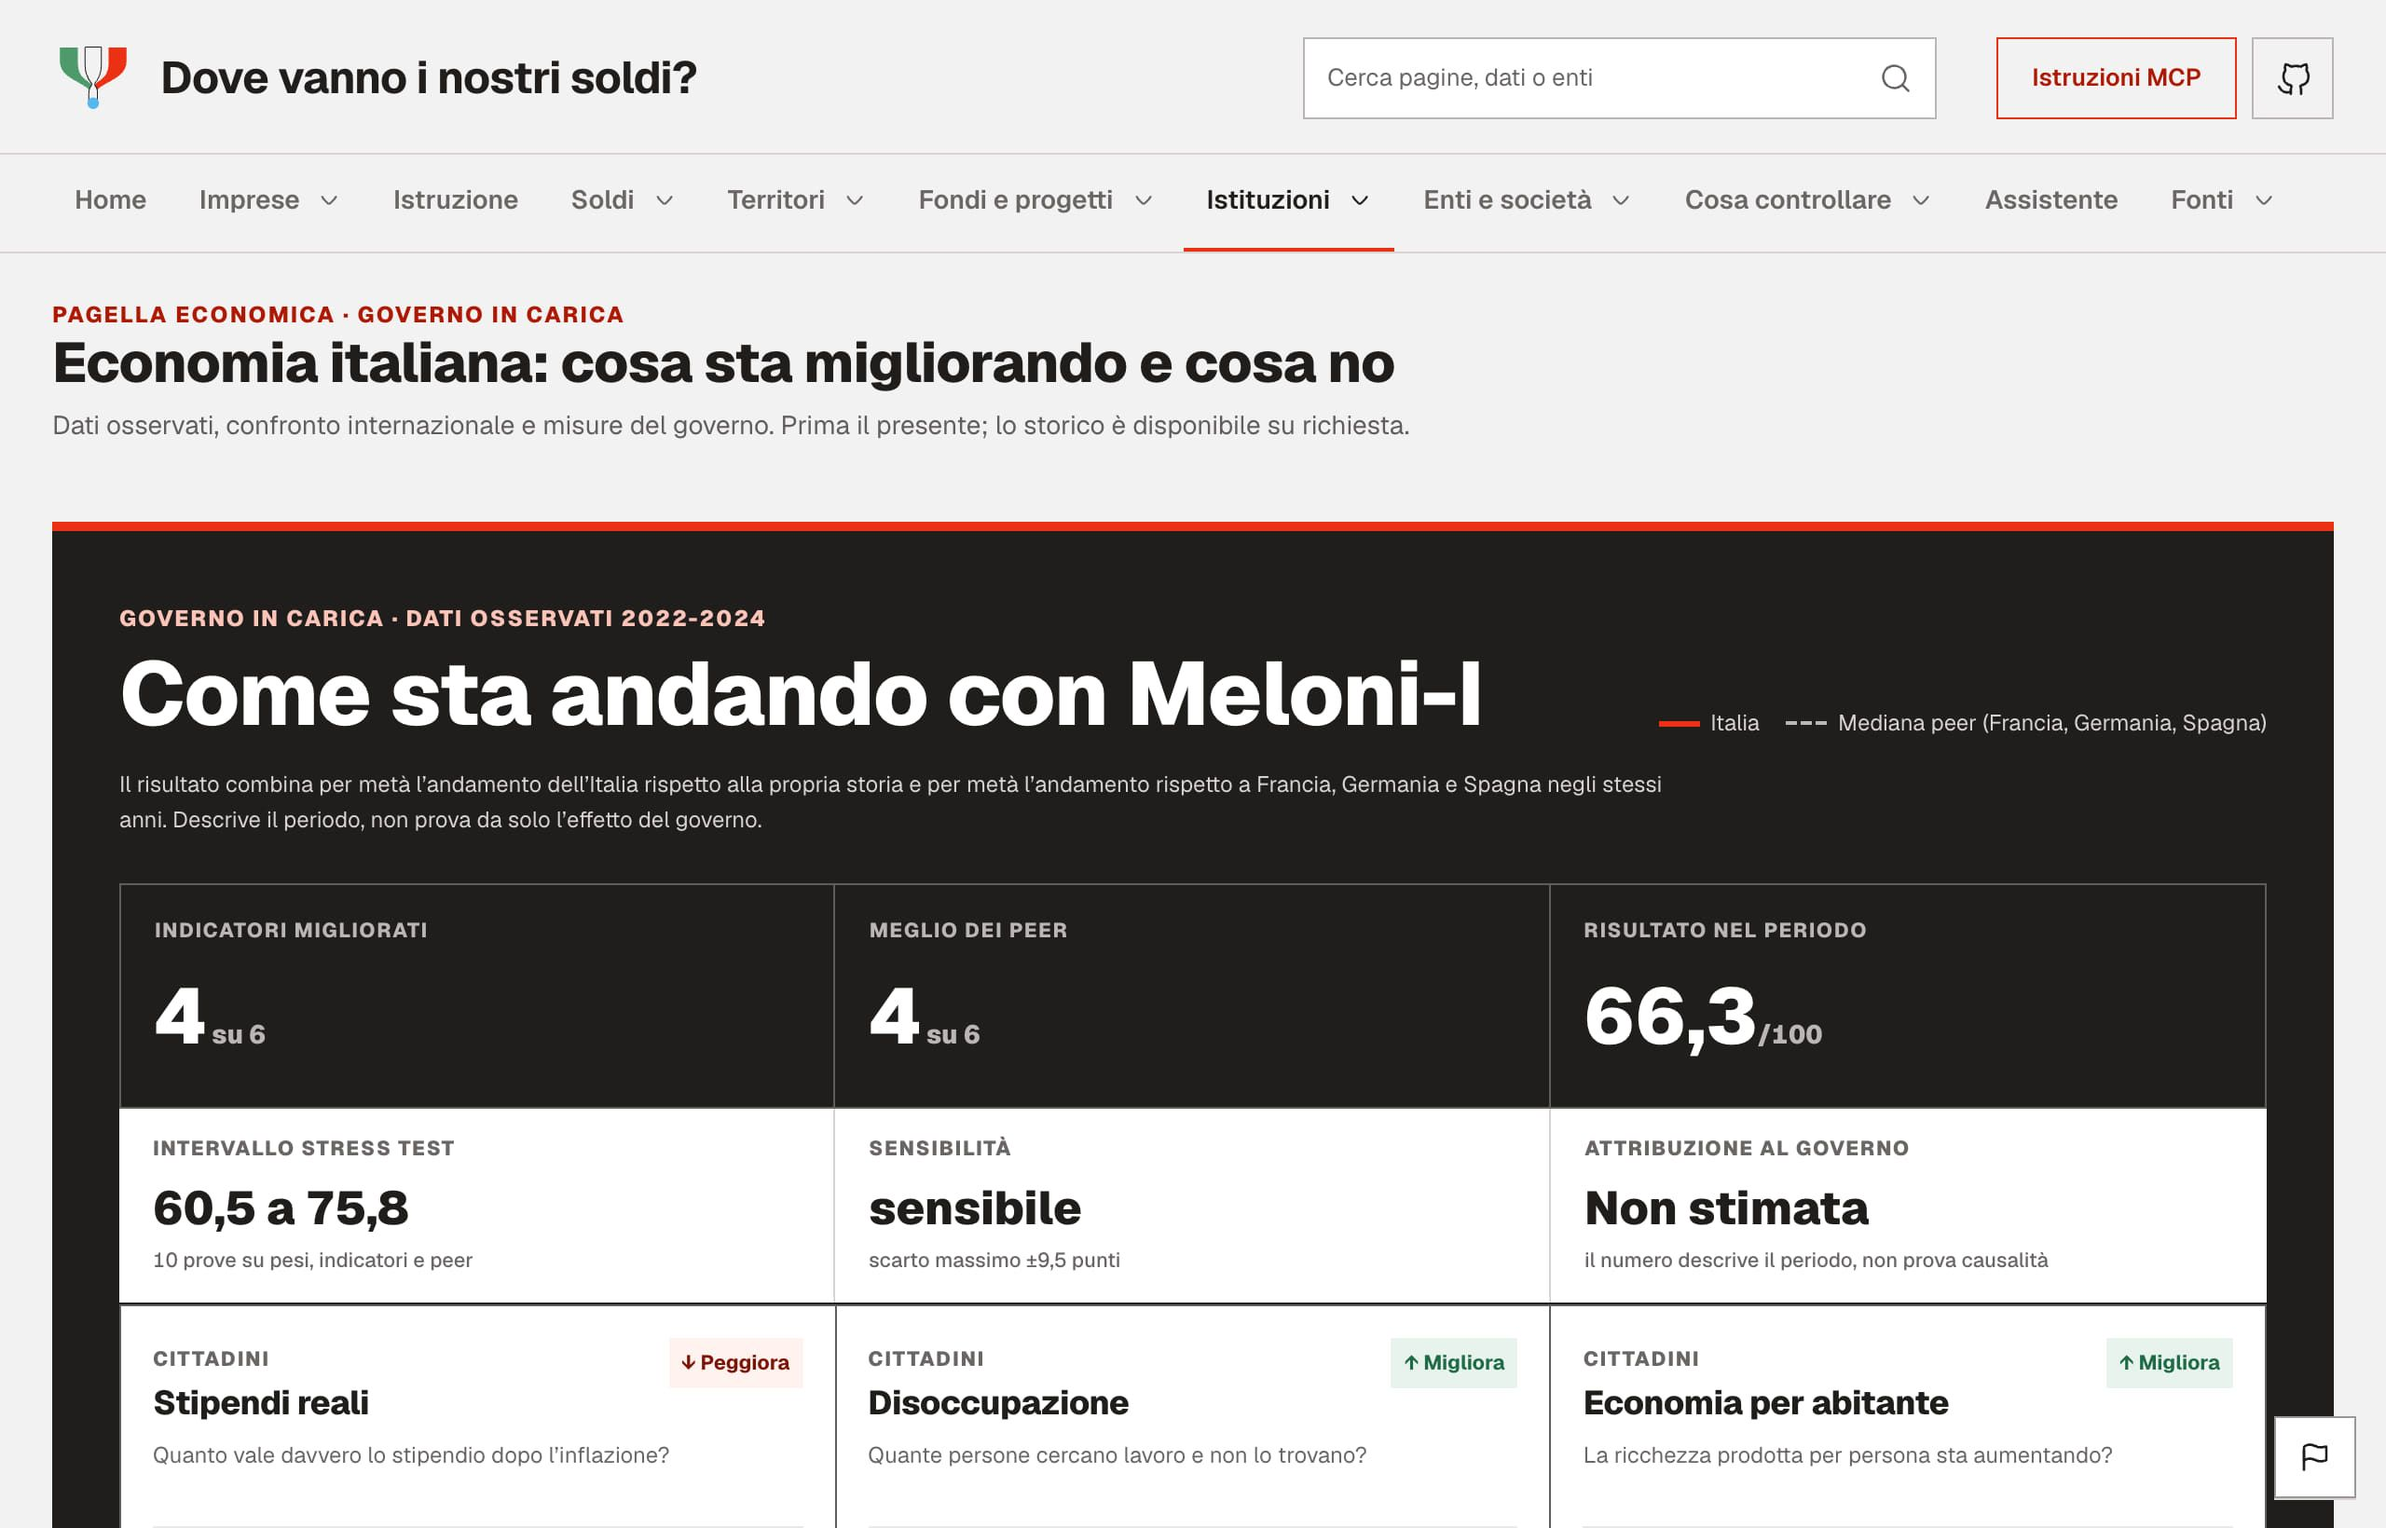
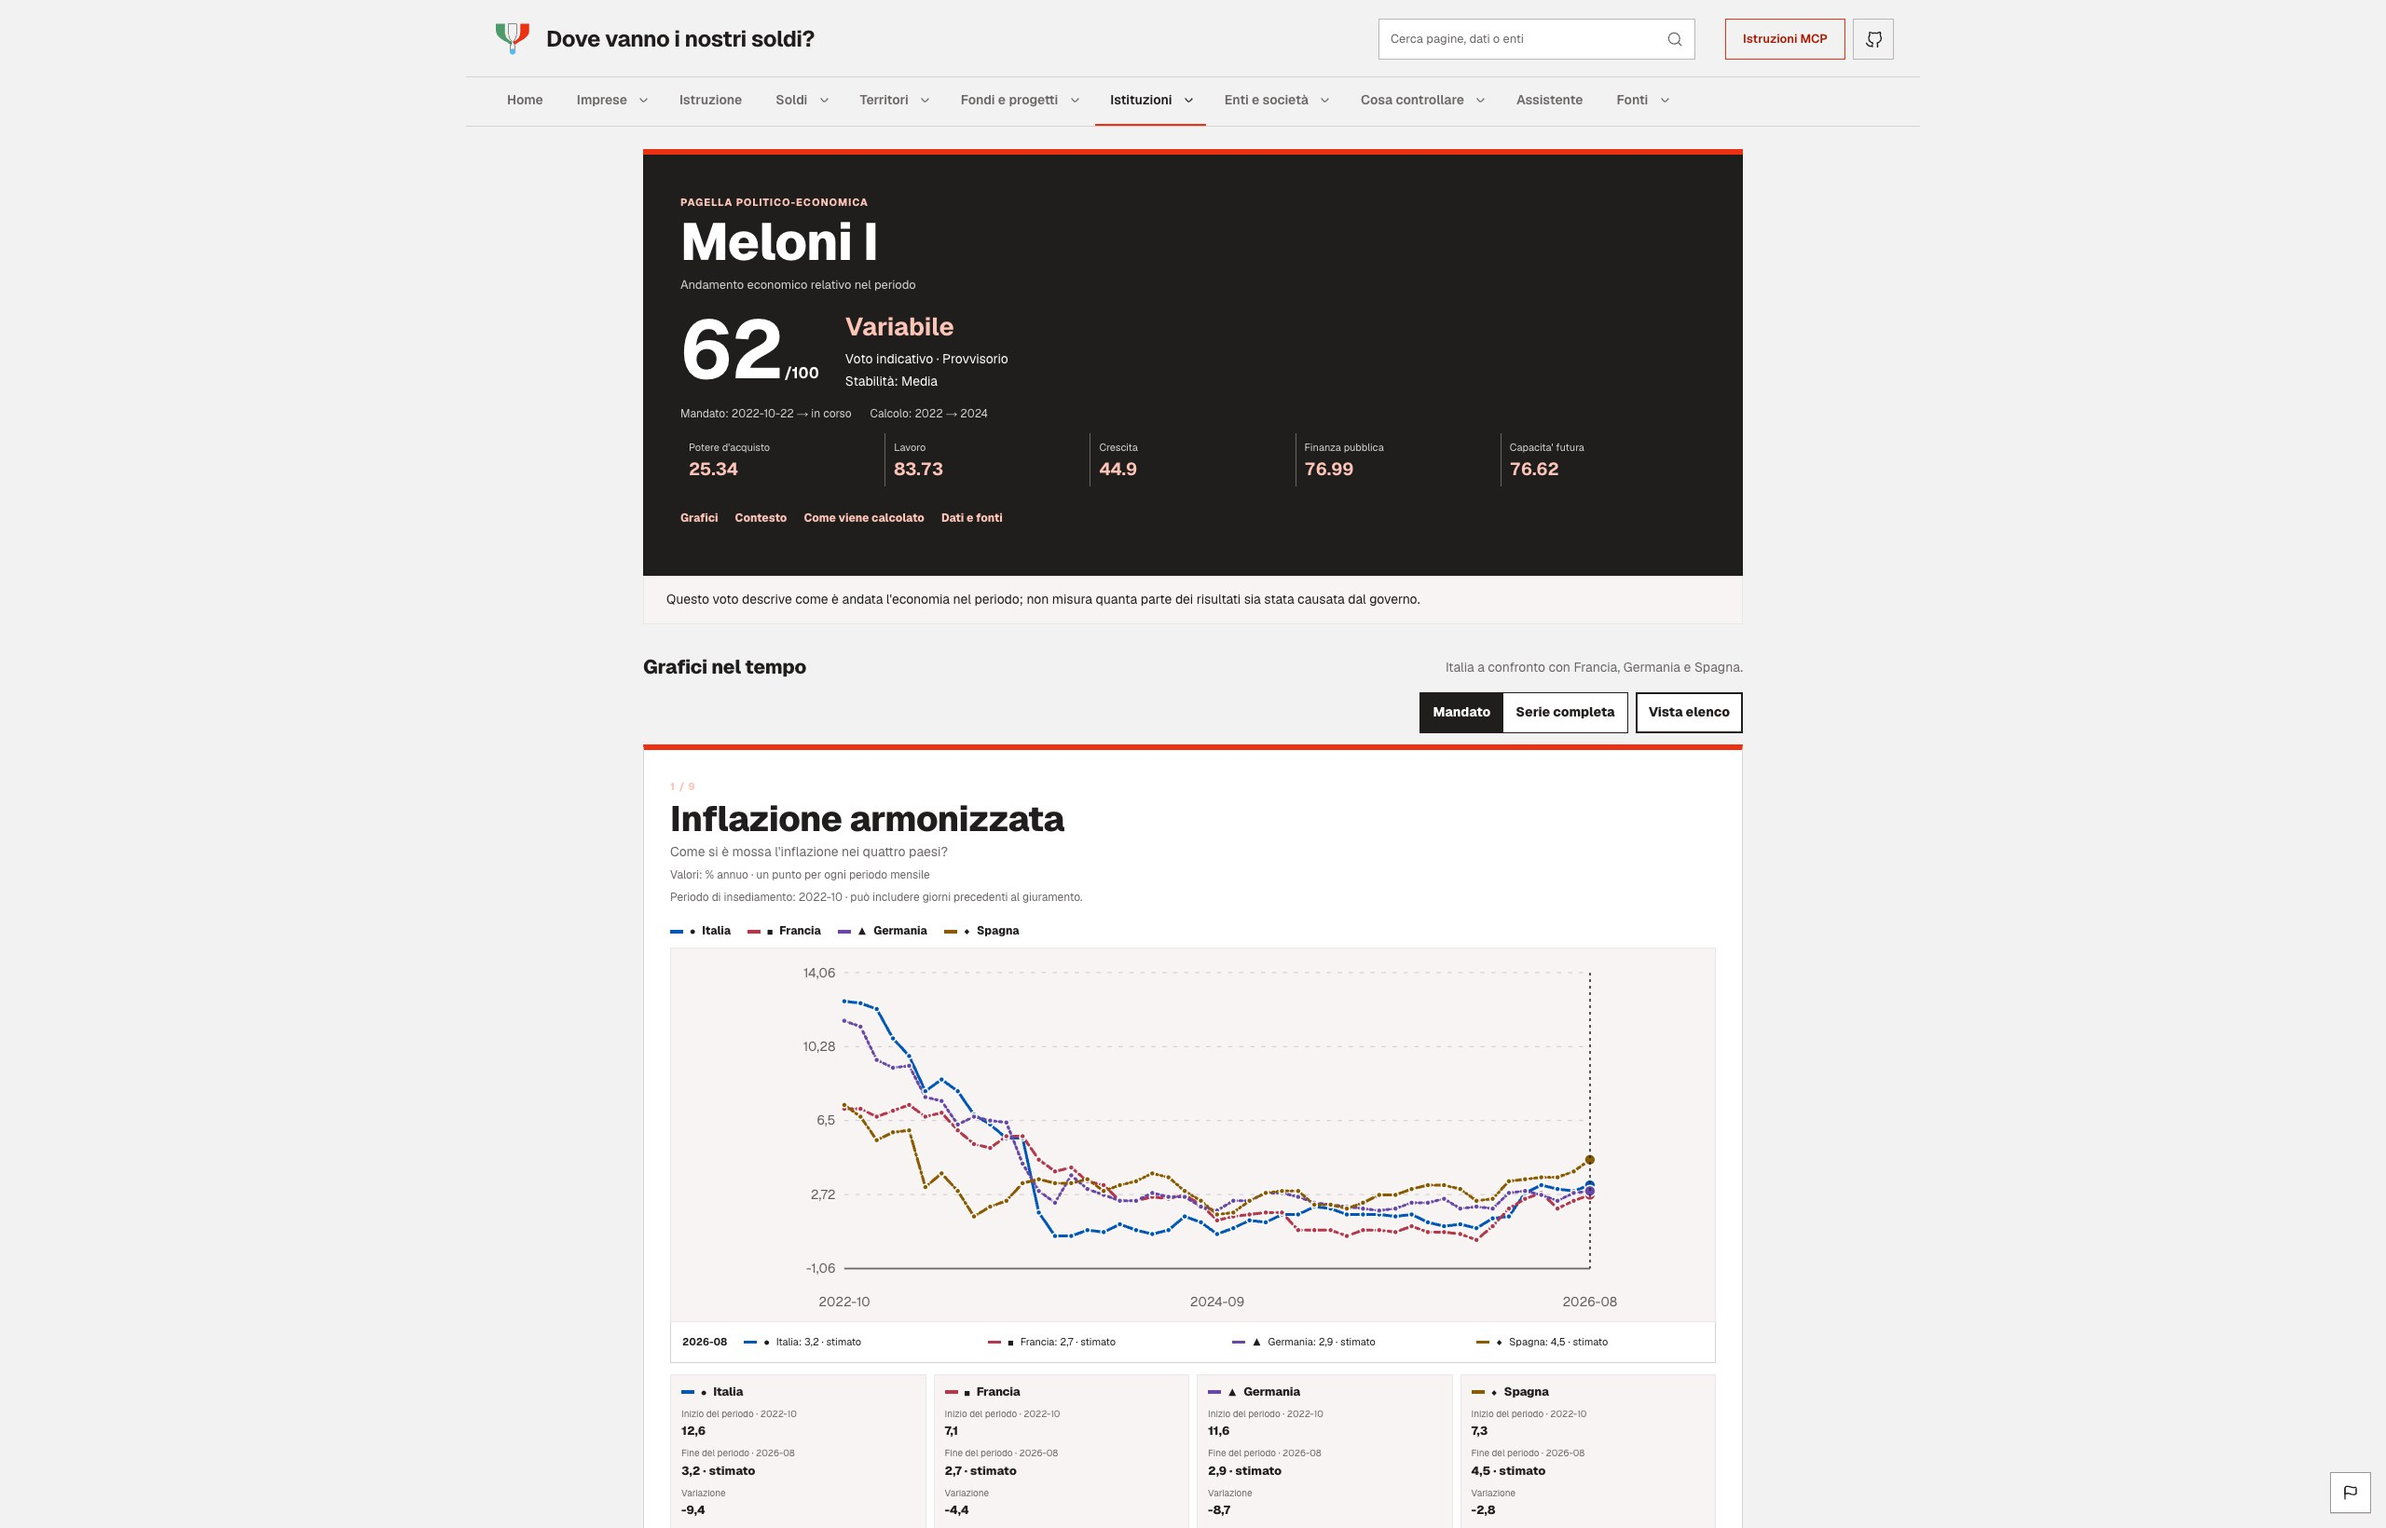
docs(governi): explain method sources and refresh

diff --git a/docs/PAGELLA_POLITICO_ECONOMICA.md b/docs/PAGELLA_POLITICO_ECONOMICA.md
@@ -65,12 +65,25 @@ Ogni indicatore usa gli stessi quattro paesi, la stessa finestra temporale e la 
 
 ### Dati mostrati per capire il periodo
 
-I grafici aggiungono:
+La pagina mostra nove serie. La frequenza più alta serve a leggere cosa è
+successo dentro il mandato; non sostituisce le serie annuali AMECO usate nel
+voto.
 
-- inflazione mensile;
-- tasso di occupazione trimestrale;
-- debito pubblico per abitante annuale;
-- le sei serie annuali usate nel voto.
+| Grafico | Frequenza e fonte | Ultimo periodo nello snapshot | Entra nel voto |
+| --- | --- | --- | --- |
+| Inflazione armonizzata | mensile, Eurostat `prc_hicp_minr` | agosto 2026, stimato | no |
+| Retribuzione reale per dipendente | annuale, AMECO | 2024, osservato | sì |
+| Disoccupazione | mensile, Eurostat `une_rt_m` | luglio 2026 | no |
+| Occupazione | trimestrale, Eurostat `lfsi_emp_q` | primo trimestre 2026 | no |
+| PIL reale per abitante | trimestrale, Eurostat `namq_10_pc` | secondo trimestre 2026 | no |
+| Debito pubblico / PIL | trimestrale, Eurostat `gov_10q_ggdebt` | primo trimestre 2026 | no |
+| Debito pubblico per abitante | annuale, Eurostat `gov_10dd_edpt1` + `nama_10_pe` | 2025 | no |
+| Saldo primario / PIL | trimestrale, Eurostat `gov_10q_ggnfa` | primo trimestre 2026 | no |
+| Investimenti / PIL | trimestrale, Eurostat `namq_10_gdp` | secondo trimestre 2026 | no |
+
+“Stimato” e “provvisorio” sono stati pubblicati dalla fonte e vengono mostrati
+come tali. Questi punti aiutano a leggere il periodo, ma non entrano nel voto:
+il calcolo usa solo le osservazioni annuali AMECO descritte sopra.
 
 Il debito per abitante è calcolato solo quando Eurostat fornisce, per lo stesso paese e lo stesso anno, debito pubblico consolidato e popolazione. Non vengono interpolati valori mancanti.
 
@@ -98,6 +111,13 @@ Le date istituzionali non sono stimate:
 Il voto usa dati annuali. A ogni anno è associata la data di riferimento del 1º luglio. Un anno entra nella finestra del governo soltanto se quella data cade nel suo mandato. La variazione è calcolata fra il primo e l'ultimo anno assegnato; servono due estremi distinti.
 
 Questa regola è uguale per tutti e impedisce di scegliere manualmente gli anni più favorevoli.
+
+I grafici seguono una regola diversa perché possono essere mensili,
+trimestrali o annuali: iniziano dal periodo che contiene il giorno del
+giuramento e terminano all'ultimo periodo pubblicato o alla fine del mandato.
+Il primo punto può quindi includere alcuni giorni precedenti al giuramento; la
+pagina lo segnala esplicitamente. Questa scelta amplia soltanto il contesto
+visivo e non cambia il voto.
 
 ## Stati possibili
 
@@ -132,8 +152,13 @@ La storia serve a spiegare l'evoluzione del progetto. Solo il metodo descritto q
 ### Grafici aggiuntivi
 
 - **Eurostat `prc_hicp_minr`**: inflazione armonizzata mensile;
+- **Eurostat `une_rt_m`**: disoccupazione mensile destagionalizzata;
 - **Eurostat `lfsi_emp_q`**: tasso di occupazione trimestrale destagionalizzato;
+- **Eurostat `namq_10_pc`**: PIL reale trimestrale per abitante;
 - **Eurostat `gov_10dd_edpt1`**: debito pubblico consolidato;
+- **Eurostat `gov_10q_ggdebt`**: debito pubblico trimestrale in rapporto al PIL;
+- **Eurostat `gov_10q_ggnfa`**: saldo netto e interessi usati per ricavare il saldo primario trimestrale;
+- **Eurostat `namq_10_gdp`**: investimenti trimestrali in rapporto al PIL;
 - **Eurostat `nama_10_pe`**: popolazione annuale.
 
 ### Date e contesto
@@ -186,6 +211,27 @@ Quando giura un nuovo governo occorre:
 | `src/data/generated/government-scorecard-page.json` | nove grafici, fonti e contesto dei 17 governi | no |
 
 Il secondo file contiene l'impronta del primo. Se i due non appartengono allo stesso aggiornamento, la validazione fallisce.
+
+Il file della pagina è l'eccezione tipizzata prevista dallo
+[standard di import](DATA_IMPORT_STANDARD.md): le serie hanno frequenze e stati
+diversi, due indicatori sono derivati da componenti che devono riconciliare e
+ogni punto conserva fonte e hash. Non duplica un dataset già pubblicato nel
+corpus integrato. Il contratto TypeScript/Zod e l'ETL rifiutano campi, filtri,
+periodi o provenienze inattesi.
+
+I tre assi obbligatori sono trattati così:
+
+- **soldi:** quasi tutte le serie sono indici, tassi o rapporti; lo stock di
+  debito in milioni di euro viene usato soltanto per ricavare il valore pro
+  capite e non viene sommato a pagamenti, impegni o previsioni;
+- **periodo:** ogni punto conserva periodo di riferimento, frequenza e stato;
+- **provenienza:** titolare, URL di query e landing, condizioni di riuso, data
+  della fonte, acquisizione, dimensione e SHA-256 restano separati. Il controllo
+  di validità avviene durante la stessa acquisizione registrata.
+
+Nell'inventario generale il periodo `2024` della riga `government-scorecard`
+indica l'ultimo anno osservato del voto. Gli ultimi periodi dei nove grafici
+sono elencati nella tabella sopra e nel secondo artefatto.
 
 ## Verifica locale
 

diff --git a/README.md b/README.md
@@ -22,13 +22,13 @@ Bilanci, pagamenti, appalti, debito, partecipazioni e fonti istituzionali esisto
 - Capire rapidamente che cosa il dato misura, e che cosa non misura.
 - Fare domande al catalogo dati e al server MCP in sola lettura.
 
-Oggi il portale copre pagamenti comunali, imprese, istruzione, sanità, pensioni, debito, fondi e progetti, enti, segnali da fonti ufficiali e una pagella economica dei governi. Il [registro fonti](https://www.dovevannoinostrisoldi.com/fonti) elenca 24 collegamenti. Il [catalogo MCP](https://www.dovevannoinostrisoldi.com/mcp) espone 32 dataset interrogabili in sola lettura. L’[assistente](https://www.dovevannoinostrisoldi.com/assistente) risponde su snapshot verificati, senza modello generativo.
+Oggi il portale copre pagamenti comunali, imprese, istruzione, sanità, pensioni, debito, fondi e progetti, enti, segnali da fonti ufficiali e una pagella politico-economica dei governi. Il [registro fonti](https://www.dovevannoinostrisoldi.com/fonti) elenca 24 collegamenti. Il [catalogo MCP](https://www.dovevannoinostrisoldi.com/mcp) espone 32 dataset interrogabili in sola lettura. L’[assistente](https://www.dovevannoinostrisoldi.com/assistente) risponde su snapshot verificati, senza modello generativo.
 
 ![Home: pagamenti dei Comuni, mappa regionale e composizione della spesa](docs/readme/home.jpg)
 
 | Territori | Pagella dei governi |
 | --- | --- |
-| ![Territori: pagamenti comunali per regione, con filtro anno e metrica](docs/readme/territori.jpg) | ![Pagella economica del governo in carica, con confronto europeo](docs/readme/governi.jpg) |
+| ![Territori: pagamenti comunali per regione, con filtro anno e metrica](docs/readme/territori.jpg) | ![Pagella politico-economica del governo in carica, con confronto europeo](docs/readme/governi.jpg) |
 
 | Atlante Istruzione | Atlante Imprese |
 | --- | --- |
@@ -98,7 +98,7 @@ Limiti importanti:
 - ANAC CIG 2025: snapshot mensile verificato, non ricerca live per CIG o fornitore.
 - PNRR: perimetro asili e prima infanzia; non include i pagamenti ReGiS né tutto il Piano.
 - OpenCivitas 2022: Comuni a statuto ordinario (6.557 enti, 15 Regioni).
-- Pagella dei governi: descrive il periodo osservato e il confronto con Francia, Germania e Spagna; non stima quanto sia attribuibile all’esecutivo.
+- [Pagella dei governi](docs/PAGELLA_POLITICO_ECONOMICA.md): descrive il periodo osservato e il confronto con Francia, Germania e Spagna; non stima quanto sia attribuibile all’esecutivo.
 - Assistente: intenti predefiniti, una domanda per volta; non risponde su un singolo Comune e non accetta richieste su frode o corruzione.
 - Contabilità diverse non si sommano (SIOPE, IRPEF, CPT, costi previsti, debiti).
 

diff --git a/docs/DATA_SOURCES.md b/docs/DATA_SOURCES.md
@@ -32,6 +32,41 @@ restano verificabili nel registro di copertura senza creare link circolari.
 Per aggiungere una nuova fonte in modo ripetibile (contributor o agente), usa
 [DATA_IMPORT_STANDARD.md](DATA_IMPORT_STANDARD.md).
 
+## Pagella politico-economica dei governi
+
+La pagina `/governi` combina due perimetri che non vanno confusi:
+
+- **voto:** sei serie annuali AMECO della Commissione europea, per Italia,
+  Francia, Germania e Spagna; il vintage Spring 2026 contiene osservazioni fino
+  al 2024 e previsioni dal 2025, ma il punteggio usa solo le osservazioni;
+- **lettura del mandato:** nove grafici AMECO/Eurostat, con frequenza annuale,
+  trimestrale o mensile, più un contesto curato da fonti istituzionali. Questi
+  dati non cambiano il voto.
+
+I dataset Eurostat sono `prc_hicp_minr`, `une_rt_m`, `lfsi_emp_q`,
+`namq_10_pc`, `gov_10dd_edpt1`, `gov_10q_ggdebt`, `gov_10q_ggnfa`,
+`namq_10_gdp` e `nama_10_pe`. Le query sono limitate a IT, FR, DE ed ES e i
+filtri di unità, settore, voce e destagionalizzazione sono bloccati nel source
+spec. Le risposte JSON-stat e lo ZIP CSV AMECO conservano byte, dimensione,
+data di acquisizione e SHA-256.
+
+Le serie non misurano la causalità delle decisioni di governo. Il confronto con
+gli altri tre paesi riduce alcuni shock comuni, ma non assegna meriti o colpe.
+Debito, saldo primario, investimenti, PIL, occupazione e prezzi mantengono unità
+e frequenze distinte; non vengono sommati. I valori mancanti non sono
+interpolati.
+
+Il riuso segue la [CC BY 4.0 della Commissione europea salvo diversa
+indicazione](https://commission.europa.eu/legal-notice_en) e la
+[policy di riuso Eurostat](https://ec.europa.eu/eurostat/web/main/help/copyright-notice),
+incluse le eccezioni dichiarate dalla fonte. Il refresh controlla le origini
+ogni settimana, mentre la pubblicazione effettiva segue la cadenza di ciascun
+dataset e passa sempre da una PR.
+
+Contratto, formule, ultimi periodi disponibili e procedura di manutenzione sono
+documentati in
+[PAGELLA_POLITICO_ECONOMICA.md](PAGELLA_POLITICO_ECONOMICA.md).
+
 Il periodo è valorizzato per 32 dataset su 79 soltanto quando il confine è
 ricavabile da una colonna temporale dedicata (`anno`, `data`, `esercizio`,
 `dal`/`al`, `periodo_*`, `source_year`, `data_aggiornamento`) o dal contratto

diff --git a/docs/FRESHNESS_AND_REFRESH.md b/docs/FRESHNESS_AND_REFRESH.md
@@ -171,6 +171,25 @@ commit. Hash, dimensioni e data di acquisizione già versionati vengono sostitui
 soltanto quando cambia il contenuto normalizzato o la versione upstream; una
 variazione semantica continua a richiedere l'intera validazione.
 
+### Pagella politico-economica dei governi
+
+Il workflow `government-scorecard-refresh.yml` controlla ogni martedì AMECO e
+le nove fonti Eurostat della pagina. È discovery settimanale: non trasforma una
+serie annuale o trimestrale in un dato settimanale.
+
+AMECO determina il voto soltanto fino all'ultimo anno comune osservato; le sue
+previsioni restano escluse. Eurostat aggiorna i grafici secondo la cadenza della
+singola serie. Ogni punto mantiene il proprio periodo e lo stato pubblicato
+(`observed`, `provisional` o `estimated`). Un cambiamento genera una PR dati
+separata dopo i controlli su filtri, paesi, periodi, unità, hash,
+riconciliazioni e contratto runtime. Un errore di rete o di schema conserva
+l'ultimo snapshot valido.
+
+Il contesto documentato non viene estratto automaticamente dalle notizie: è
+revisionato almeno ogni tre mesi, dopo eventi economici rilevanti e al cambio
+di governo. La procedura completa è in
+[PAGELLA_POLITICO_ECONOMICA.md](PAGELLA_POLITICO_ECONOMICA.md).
+
 ## Policy iniziali
 
 | Fonte | Cadenza sorgente | Discovery DoveVannoINostriSoldi | Dati |
@@ -188,6 +207,7 @@ variazione semantica continua a richiedere l'intera validazione.
 | Senato della Repubblica | su pubblicazione | 6 h | 12 h |
 | Banca d'Italia · debito pubblico | mensile, circa 45 giorni di ritardo | controllo giornaliero 06:17 UTC | snapshot versionato; stale oltre 75 giorni |
 | Eurostat · interessi e spesa totale | annuale | controllo giornaliero 06:17 UTC | snapshot versionato; warning oltre 540 giorni |
+| AMECO + Eurostat · pagella governi | da mensile ad annuale, secondo la serie | controllo settimanale martedì 07:37 UTC | snapshot versionato; pubblicazione tramite PR |
 
 Camera ha un riepilogo strutturato con data del documento. Senato resta documentale: i nuovi atti vengono collegati, ma i valori non sono pubblicati finché non superano una normalizzazione verificabile.
 
